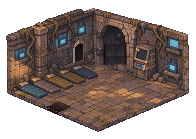
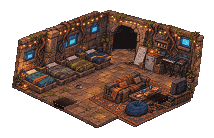
Chapter 1: the owner's furnished Entrance Hall
- the new hall concept fitted to the grid (corner nudges from the walls' base lines), rubble cut out of the arch
- beds are the friends' rest spots, the whiteboard of plans opens the wings, the CRT TV opens storage,
  the fridge (Triple Cheese), music setup (mic line), couch, Smash table and beanbag talk
- workshop door moved to the hall's open right side; room_concept --grid marks solid tiles, signs, warps

Claude-Session: https://claude.ai/code/session_017dBWVrfL9iWDN6K8EV6hvW

diff --git a/game/tests/world.test.ts b/game/tests/world.test.ts
@@ -86,7 +86,8 @@ describe('the sanctuary base', () => {
     const toWorkshop = hall.warps.find((w) => w.to === 'sanctuary_workshop')!;
     const toRoots = hall.warps.find((w) => w.to === 'sanctuary_roots')!;
     const blockedNow = (x: number, y: number) => !!gateAt(hall, x, y, fresh);
-    const inFront = (w: { x: number; y: number }) => (w.y < 0 ? { x: w.x, y: 0 } : { x: 0, y: w.y });
+    // the tile you step through it from: a back-wall door, a left-wall door, or an open right side (Chapter 1's hall)
+    const inFront = (w: { x: number; y: number }) => (w.y < 0 ? { x: w.x, y: 0 } : w.x < 0 ? { x: 0, y: w.y } : { x: w.x - 1, y: w.y });
     expect(findPath(hall.id, mat, inFront(toWorkshop), blockedNow)).not.toBeNull();
     // the arch to Root Hall: rubble in front of it until root_hall is restored
     expect(gateAt(hall, inFront(toRoots).x, inFront(toRoots).y, fresh)?.kind).toBe('in_rubble');

diff --git a/art/tools/room_concept.py b/art/tools/room_concept.py
@@ -142,12 +142,24 @@ def build(room, grid=False):
     tile = lambda x, y: (ox + (x - y) * w / 2, oy + (x + y) * h / 2)
     if grid:
         g = Image.fromarray(canvas, 'RGBA').resize((W * 4, H * 4), Image.NEAREST)
+        over = Image.new('RGBA', g.size, (0, 0, 0, 0))
+        d = ImageDraw.Draw(over)
+        solid = {tuple(t) for t in cfg.get('solid', [])}
+        signs = {(s['x'], s['y']) for s in cfg.get('signs', [])}
+        for y in range(-1, ny + 1):
+            for x in range(-1, nx + 1):
+                sx, sy = tile(x, y)
+                q = [(sx + w / 2, sy), (sx + w, sy + h / 2), (sx + w / 2, sy + h), (sx, sy + h / 2)]
+                inside = 0 <= x < nx and 0 <= y < ny
+                if (x, y) in solid: d.polygon([(px * 4, py * 4) for px, py in q], fill=(255, 40, 40, 90))
+                if (x, y) in signs: d.polygon([(px * 4, py * 4) for px, py in q], outline=(255, 230, 0), width=3)
+                if any(wp['x'] == x and wp['y'] == y for wp in cfg['warps']): d.polygon([(px * 4, py * 4) for px, py in q], fill=(40, 255, 80, 110))
+                if inside: d.polygon([(px * 4, py * 4) for px, py in q], outline=(0, 255, 255))
+        g = Image.alpha_composite(g, over)
         d = ImageDraw.Draw(g)
         for y in range(ny):
             for x in range(nx):
                 sx, sy = tile(x, y)
-                q = [(sx + w / 2, sy), (sx + w, sy + h / 2), (sx + w / 2, sy + h), (sx, sy + h / 2)]
-                d.polygon([(px * 4, py * 4) for px, py in q], outline=(0, 255, 255))
                 d.text(((sx + w / 2) * 4 - 10, (sy + h / 2) * 4 - 6), f'{x},{y}', fill=(255, 255, 0))
         return g, (nx, ny, w, h)
 
